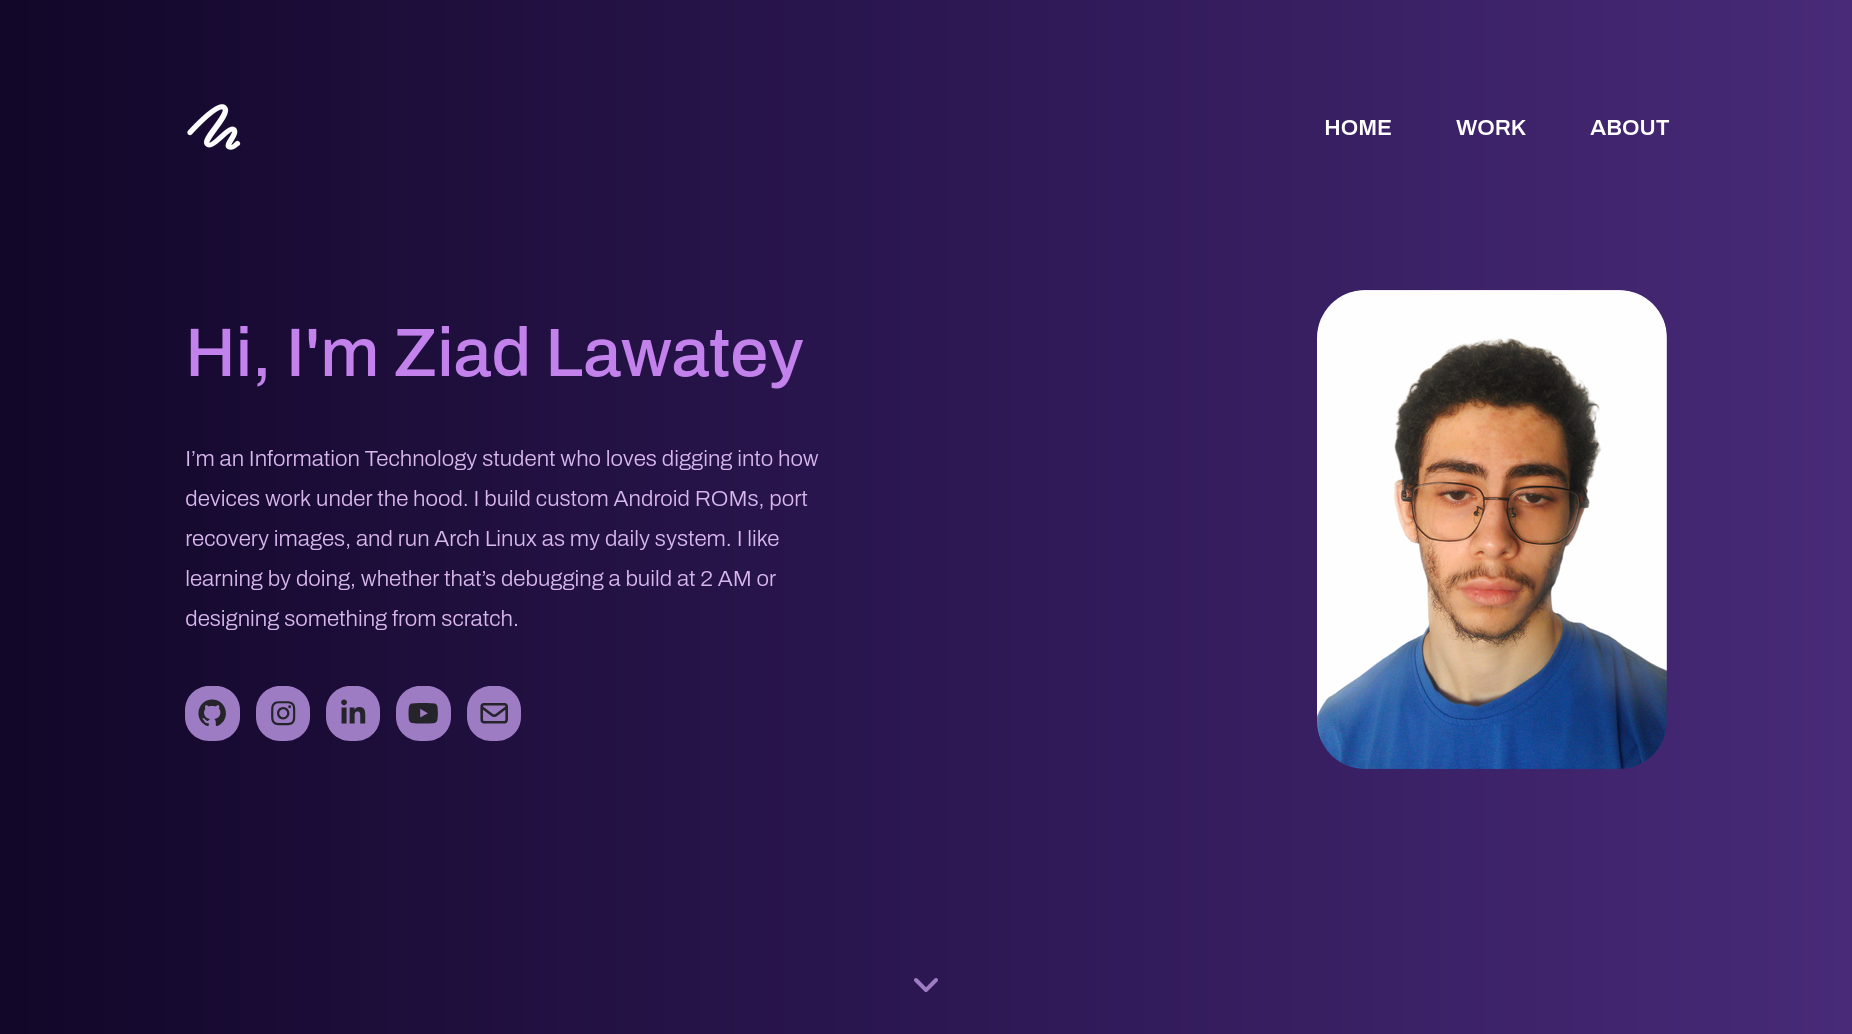
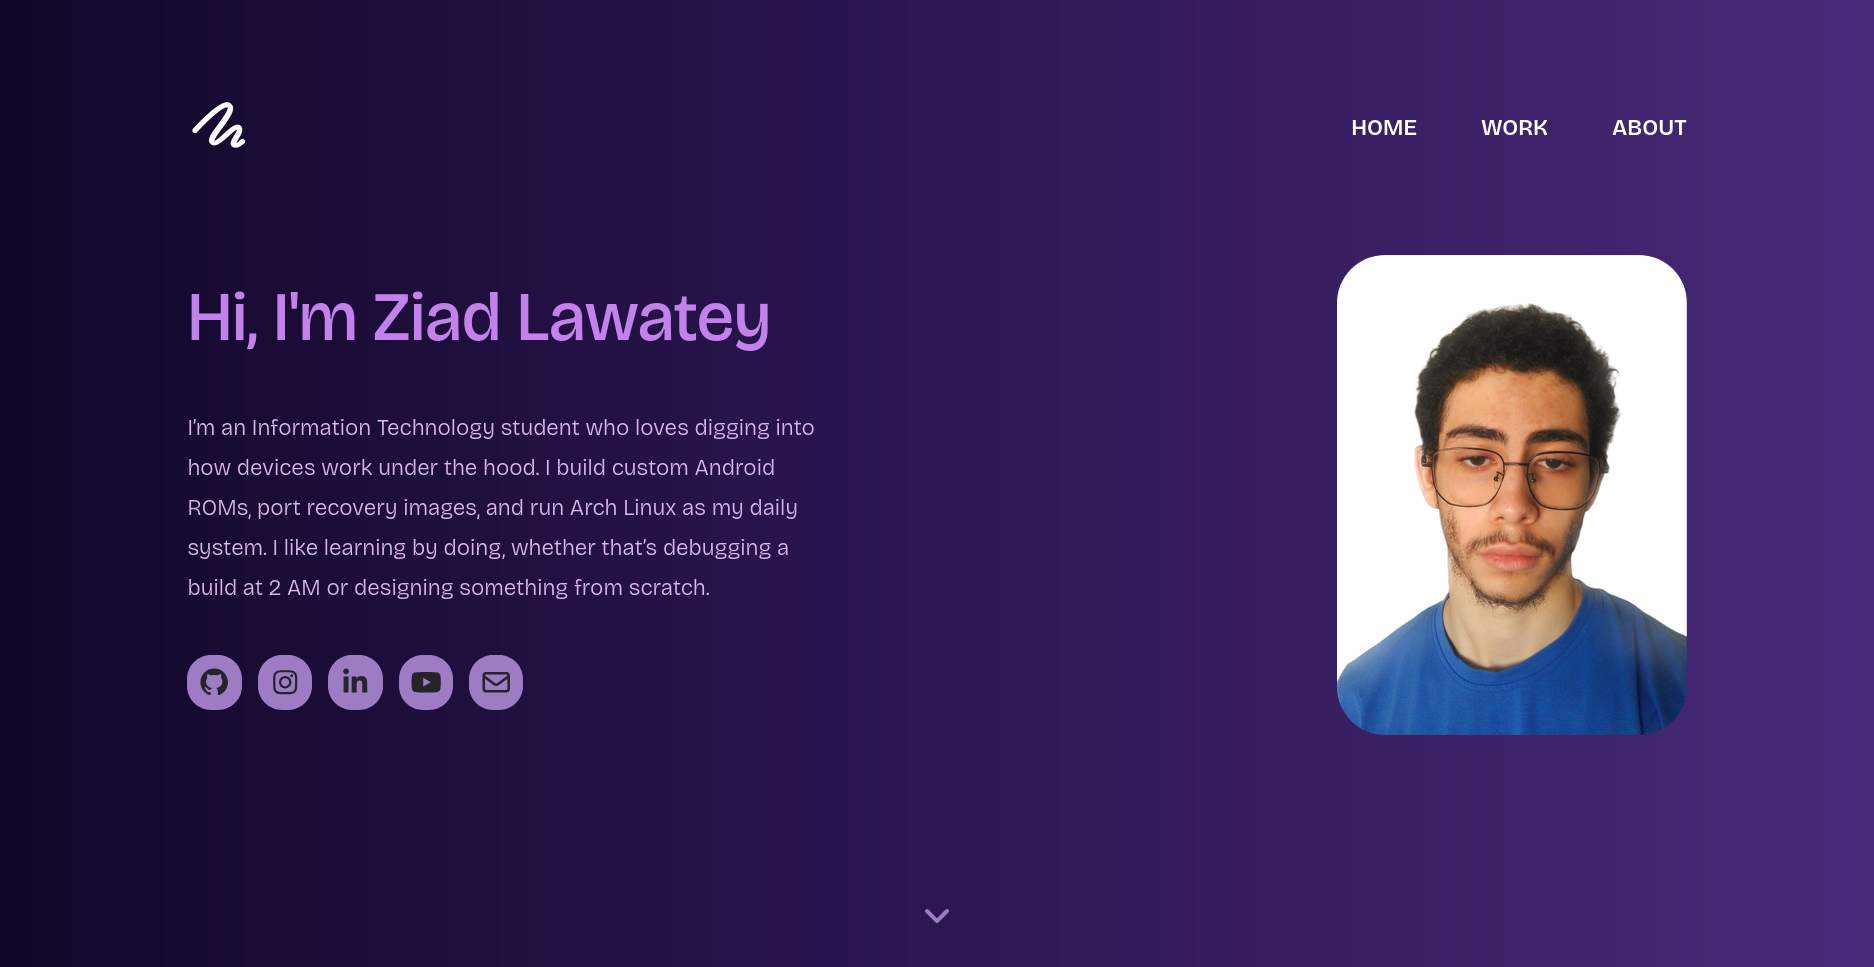
.

diff --git a/src/index.js b/src/index.js
@@ -29,3 +29,34 @@ window.addEventListener("scroll", updateScroll, { passive: true });
 
 updateHeader();
 updateScroll();
+
+add_filter("wpseo_opengraph_image", "custom_og_image");
+function custom_og_image($img) {
+  $custom_img = wp_get_attachment_image_src(get_post_thumbnail_id(), "large");
+  if ($custom_img) {
+    return $custom_img[0];
+  }
+  return $img;
+}
+add_filter("wpseo_opengraph_image_width", "custom_og_image_width");
+function custom_og_image_width($width) {
+  $thumbnail_id = get_post_thumbnail_id();
+  if ($thumbnail_id) {
+    $img_data = wp_get_attachment_image_src($thumbnail_id, "large");
+    if ($img_data && isset($img_data[1])) {
+      return $img_data[1];
+    }
+  }
+  return $width;
+}
+add_filter("wpseo_opengraph_image_height", "custom_og_image_height");
+function custom_og_image_height($height) {
+  $thumbnail_id = get_post_thumbnail_id();
+  if ($thumbnail_id) {
+    $img_data = wp_get_attachment_image_src($thumbnail_id, "large");
+    if ($img_data && isset($img_data[2])) {
+      return $img_data[2];
+    }
+  }
+  return $height;
+}

diff --git a/index.html b/index.html
@@ -9,8 +9,6 @@
       property="og:description"
       content=""
     /> -->
-    <meta property="og:imsage:width" content="1200" />
-    <meta property="og:image:height" content="630" />
     <!-- <meta
       property="og:image:alt"
       content="Ziad Lawatey, IT student and Android ROM builder"
@@ -19,7 +17,11 @@
       property="og:url"
       content="https://ziadlawatey-portfolio.vercel.app"
     />
-    <meta property="og:type" content="website" />
+    <meta property="og:type" content="portfolio" />
+    <meta
+      property="og:image"
+      content="https://ziadlawatey-portfolio.vercel.app/assets/design/preview.png"
+    />
 
     <!-- All CSS Files Links -->
     <link rel="stylesheet" href="src/styles/default.css" />
